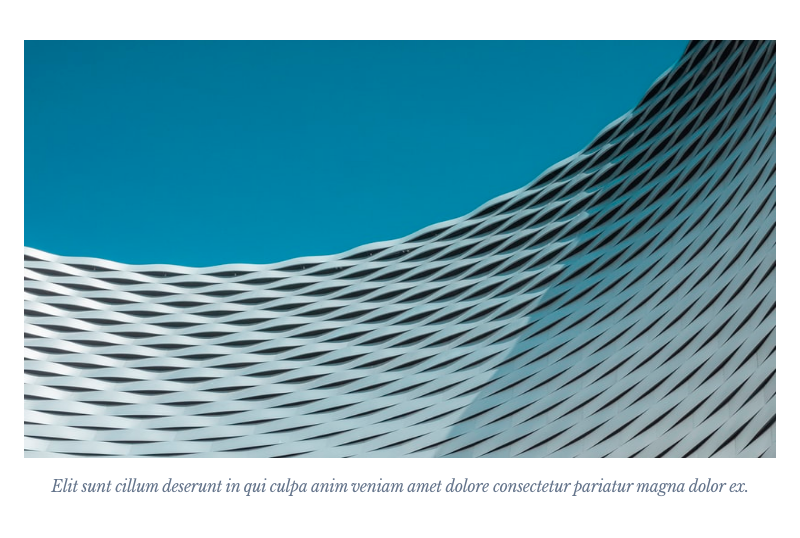
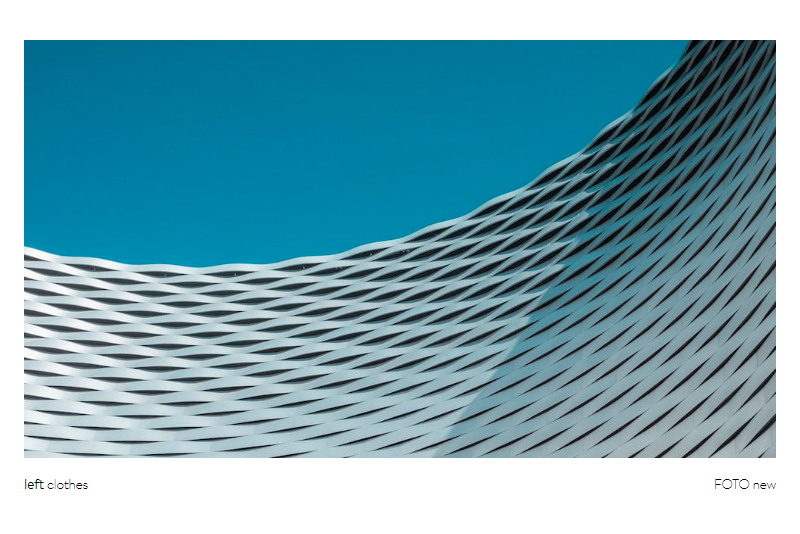
feat: style changes

Changed region(s): [[0.0312, 0.1798, 0.9688, 0.9288]]

diff --git a/pages/_app.js b/pages/_app.js
@@ -18,45 +18,45 @@ const NextLinkShim = ({ href, children, locale, ...props }) => {
 
 const richTextComponents = {
   heading1: ({ children }) => (
-    <Heading as="h2" size="3xl" className="mb-7 mt-12 first:mt-0 last:mb-0">
+    <Heading as='h2' size='3xl' className='mb-5 mt-12 first:mt-0 last:mb-0'>
       {children}
     </Heading>
   ),
   heading2: ({ children }) => (
-    <Heading as="h3" size="2xl" className="mb-7 last:mb-0">
+    <Heading as='h3' size='2xl' className='mb-5 last:mb-0'>
       {children}
     </Heading>
   ),
   heading3: ({ children }) => (
-    <Heading as="h4" size="xl" className="mb-7 last:mb-0">
+    <Heading as='h4' size='xl' className='mb-5 last:mb-0'>
       {children}
     </Heading>
   ),
-  paragraph: ({ children }) => <p className="mb-7 last:mb-0">{children}</p>,
+  paragraph: ({ children }) => <p className='mb-5 last:mb-0'>{children}</p>,
   oList: ({ children }) => (
-    <ol className="mb-7 pl-4 last:mb-0 md:pl-6">{children}</ol>
+    <ol className='mb-5 pl-4 last:mb-0 md:pl-6'>{children}</ol>
   ),
   oListItem: ({ children }) => (
-    <li className="mb-1 list-decimal pl-1 last:mb-0 md:pl-2">{children}</li>
+    <li className='mb-1 list-decimal pl-1 last:mb-0 md:pl-2'>{children}</li>
   ),
   list: ({ children }) => (
-    <ul className="mb-7 pl-4 last:mb-0 md:pl-6">{children}</ul>
+    <ul className='mb-5 pl-4 last:mb-0 md:pl-6'>{children}</ul>
   ),
   listItem: ({ children }) => (
-    <li className="mb-1 list-disc pl-1 last:mb-0 md:pl-2">{children}</li>
+    <li className='mb-1 list-disc pl-1 last:mb-0 md:pl-2'>{children}</li>
   ),
   preformatted: ({ children }) => (
-    <pre className="mb-7 rounded bg-slate-100 p-4 text-sm last:mb-0 md:p-8 md:text-lg">
+    <pre className='mb-5 rounded bg-slate-100 p-4 text-sm last:mb-0 md:p-8 md:text-lg'>
       <code>{children}</code>
     </pre>
   ),
   strong: ({ children }) => (
-    <strong className="font-semibold">{children}</strong>
+    <strong className='font-semibold'>{children}</strong>
   ),
   hyperlink: ({ children, node }) => (
     <PrismicLink
       field={node.data}
-      className="underline decoration-1 underline-offset-2"
+      className='underline decoration-1 underline-offset-2'
     >
       {children}
     </PrismicLink>

diff --git a/.slicemachine/assets/slices/Image/index.stories.js b/.slicemachine/assets/slices/Image/index.stories.js
@@ -5,8 +5,8 @@ export default {
 }
 
 
-export const _Default = () => <MyComponent slice={{"variation":"default","name":"Default","slice_type":"image","items":[],"primary":{"image":{"dimensions":{"width":900,"height":500},"alt":"Placeholder image","copyright":null,"url":"https://images.prismic.io/nextjs-starter-prismic-blog/bbde7d62-670b-4592-b76c-4047d0cf1635_jake-melara-Yh6K2eTr_FY-unsplash.jpg?w=900&h=500&fit=crop"},"caption":[{"type":"paragraph","text":"Commodo magna dolor est aute in enim do in minim excepteur pariatur duis culpa dolor. Fugiat non ipsum cupidatat proident velit aute Lorem cillum reprehenderit Lorem occaecat esse cillum. Aute aliqua dolor ad elit et.","spans":[]}]},"id":"_Default"}} />
-_Default.storyName = 'Default'
+export const _Default = () => <MyComponent slice={{"variation":"default","version":"sktwi1xtmkfgx8626","items":[{}],"primary":{"image":{"dimensions":{"width":900,"height":500},"alt":null,"copyright":null,"url":"https://images.unsplash.com/photo-1603312158640-1f7bf7747d92"},"title":"airplane","caption":"zipper","source":"generally"},"slice_type":"image","id":"_Default"}} />
+_Default.storyName = ''
 
-export const _Wide = () => <MyComponent slice={{"variation":"wide","name":"Wide","slice_type":"image","items":[],"primary":{"image":{"dimensions":{"width":900,"height":500},"alt":"Placeholder image","copyright":null,"url":"https://images.unsplash.com/photo-1493397212122-2b85dda8106b?w=900&h=500&fit=crop"},"caption":[{"type":"paragraph","text":"Elit sunt cillum deserunt in qui culpa anim veniam amet dolore consectetur pariatur magna dolor ex.","spans":[]}]},"id":"_Wide"}} />
-_Wide.storyName = 'Wide'
+export const _Wide = () => <MyComponent slice={{"variation":"wide","version":"sktwi1xtmkfgx8626","items":[{}],"primary":{"image":{"dimensions":{"width":900,"height":500},"alt":null,"copyright":null,"url":"https://images.unsplash.com/photo-1493397212122-2b85dda8106b"},"title":"left","caption":"clothes","source":"new"},"slice_type":"image","id":"_Wide"}} />
+_Wide.storyName = ''

diff --git a/slices/Image/index.js b/slices/Image/index.js
@@ -1,5 +1,4 @@
 import * as prismicH from "@prismicio/helpers";
-import { PrismicRichText } from "@prismicio/react";
 import { PrismicNextImage } from "@prismicio/next";
 
 import { Bounded } from "../../components/Bounded";
@@ -8,18 +7,30 @@ const Image = ({ slice }) => {
   const image = slice.primary.image;
 
   return (
-    <Bounded as="section" size={slice.variation === "wide" ? "widest" : "base"}>
-      <figure className="grid grid-cols-1 gap-4">
+    <Bounded as='section' size={slice.variation === "wide" ? "widest" : "base"}>
+      <figure className='grid grid-cols-1 gap-2'>
         {prismicH.isFilled.image(image) && (
-          <div className="bg-gray-100">
-            <PrismicNextImage field={image} layout="responsive" />
+          <div className='bg-gray-100'>
+            <PrismicNextImage field={image} layout='responsive' />
           </div>
         )}
-        {prismicH.isFilled.richText(slice.primary.caption) && (
-          <figcaption className="text-center font-serif italic tracking-tight text-slate-500">
-            <PrismicRichText field={slice.primary.caption} />
-          </figcaption>
-        )}
+        <figcaption className='overflow-auto font-serif tracking-tight'>
+          {/* Left Caption */}
+          {prismicH.isFilled.keyText(slice.primary.title) &&
+            prismicH.isFilled.keyText(slice.primary.caption) && (
+              <span className='float-left inline-block text-sm font-light'>
+                <b className='font-bold'>{slice.primary.title}</b>{" "}
+                {slice.primary.caption}
+              </span>
+            )}
+
+          {/* Right Caption */}
+          {prismicH.isFilled.keyText(slice.primary.source) && (
+            <span className='float-right inline-block text-sm font-light'>
+              FOTO {slice.primary.source}
+            </span>
+          )}
+        </figcaption>
       </figure>
     </Bounded>
   );

diff --git a/components/Bounded.js b/components/Bounded.js
@@ -7,13 +7,14 @@ export const Bounded = ({
   children,
 }) => {
   return (
-    <Comp className={clsx("px-4 py-8 md:py-10 md:px-6 lg:py-12", className)}>
+    // <Comp className={clsx("px-4 py-8 md:py-10 md:px-6 lg:py-12", className)}></Comp>
+    <Comp className={clsx("mb-8", className)}>
       <div
         className={clsx(
           "mx-auto w-full",
-          size === "small" && "max-w-xl",
-          size === "base" && "max-w-3xl",
-          size === "wide" && "max-w-4xl",
+          size === "small" && "max-w-3xl",
+          size === "base" && "max-w-4xl",
+          size === "wide" && "max-w-5xl",
           size === "widest" && "max-w-6xl"
         )}
       >

diff --git a/components/Layout.js b/components/Layout.js
@@ -10,15 +10,15 @@ export const Layout = ({
   children,
 }) => {
   return (
-    <div className="text-slate-700">
-      <Header
+    <div className='text-slate-700'>
+      {/* <Header
         withProfile={withProfile}
         withDivider={withHeaderDivider}
         navigation={navigation}
         settings={settings}
-      />
+      /> */}
       <main>{children}</main>
-      <Footer withSignUpForm={withSignUpForm} settings={settings} />
+      {/* <Footer withSignUpForm={withSignUpForm} settings={settings} /> */}
     </div>
   );
 };

diff --git a/slices/Text/index.js b/slices/Text/index.js
@@ -5,9 +5,9 @@ import { Bounded } from "../../components/Bounded";
 
 const Text = ({ slice }) => {
   return (
-    <Bounded as="section">
+    <Bounded as='section'>
       {prismicH.isFilled.richText(slice.primary.text) && (
-        <div className="font-serif leading-relaxed md:text-xl md:leading-relaxed">
+        <div className='font-serif text-base leading-relaxed md:text-lg md:leading-relaxed'>
           <PrismicRichText field={slice.primary.text} />
         </div>
       )}
